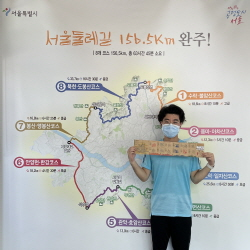
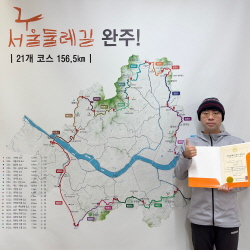
feat : ImageBB 라우터 & 2510 유럽여행 추가

diff --git a/src/app/(admin)/admin/test/page.tsx b/src/app/(admin)/admin/test/page.tsx
@@ -1,0 +1,277 @@
+"use client";
+import { useState } from "react";
+import styled from "@emotion/styled";
+import Image from "next/image";
+
+const Container = styled.div`
+  padding: 2rem;
+  max-width: 800px;
+  margin: 0 auto;
+`;
+
+const Title = styled.h1`
+  margin-bottom: 2rem;
+  color: #333;
+`;
+
+const UploadArea = styled.div`
+  border: 2px dashed #ddd;
+  border-radius: 8px;
+  padding: 2rem;
+  text-align: center;
+  margin-bottom: 2rem;
+  background: #f9f9f9;
+  cursor: pointer;
+  transition: all 0.3s;
+
+  &:hover {
+    border-color: #667eea;
+    background: #f0f0f0;
+  }
+`;
+
+const FileInput = styled.input`
+  display: none;
+`;
+
+const Button = styled.button`
+  padding: 0.75rem 1.5rem;
+  background: #667eea;
+  color: white;
+  border: none;
+  border-radius: 4px;
+  font-size: 1rem;
+  cursor: pointer;
+  transition: background 0.2s;
+  margin-top: 1rem;
+
+  &:hover:not(:disabled) {
+    background: #5568d3;
+  }
+
+  &:disabled {
+    background: #ccc;
+    cursor: not-allowed;
+  }
+`;
+
+const PreviewArea = styled.div`
+  margin-top: 2rem;
+  padding: 1rem;
+  background: #f9f9f9;
+  border-radius: 8px;
+`;
+
+const ImagePreview = styled.div`
+  margin-top: 1rem;
+  position: relative;
+  width: 100%;
+  max-width: 500px;
+  height: 300px;
+  border-radius: 8px;
+  overflow: hidden;
+  border: 1px solid #ddd;
+`;
+
+const UrlDisplay = styled.div`
+  margin-top: 1rem;
+  padding: 1rem;
+  background: white;
+  border-radius: 4px;
+  border: 1px solid #ddd;
+  word-break: break-all;
+`;
+
+const UrlLabel = styled.label`
+  display: block;
+  font-weight: bold;
+  margin-bottom: 0.5rem;
+  color: #333;
+`;
+
+const UrlInput = styled.input`
+  width: 100%;
+  padding: 0.5rem;
+  border: 1px solid #ddd;
+  border-radius: 4px;
+  font-size: 0.875rem;
+`;
+
+const CopyButton = styled.button`
+  margin-top: 0.5rem;
+  padding: 0.5rem 1rem;
+  background: #28a745;
+  color: white;
+  border: none;
+  border-radius: 4px;
+  cursor: pointer;
+  font-size: 0.875rem;
+
+  &:hover {
+    background: #218838;
+  }
+`;
+
+const ErrorMessage = styled.div`
+  margin-top: 1rem;
+  padding: 1rem;
+  background: #f8d7da;
+  color: #721c24;
+  border-radius: 4px;
+  border: 1px solid #f5c6cb;
+`;
+
+const SuccessMessage = styled.div`
+  margin-top: 1rem;
+  padding: 1rem;
+  background: #d4edda;
+  color: #155724;
+  border-radius: 4px;
+  border: 1px solid #c3e6cb;
+`;
+
+export default function ImageUploadTestPage() {
+  const [selectedFile, setSelectedFile] = useState<File | null>(null);
+  const [previewUrl, setPreviewUrl] = useState<string | null>(null);
+  const [uploadedUrl, setUploadedUrl] = useState<string | null>(null);
+  const [loading, setLoading] = useState(false);
+  const [error, setError] = useState<string | null>(null);
+  const [success, setSuccess] = useState<string | null>(null);
+
+  const handleFileSelect = (e: React.ChangeEvent<HTMLInputElement>) => {
+    const file = e.target.files?.[0];
+    if (file) {
+      if (!file.type.startsWith("image/")) {
+        setError("이미지 파일만 업로드할 수 있습니다.");
+        return;
+      }
+      setSelectedFile(file);
+      setError(null);
+      setSuccess(null);
+      setUploadedUrl(null);
+
+      // 미리보기 생성
+      const reader = new FileReader();
+      reader.onloadend = () => {
+        setPreviewUrl(reader.result as string);
+      };
+      reader.readAsDataURL(file);
+    }
+  };
+
+  const handleUpload = async () => {
+    if (!selectedFile) {
+      setError("파일을 선택해주세요.");
+      return;
+    }
+
+    setLoading(true);
+    setError(null);
+    setSuccess(null);
+
+    try {
+      const formData = new FormData();
+      formData.append("image", selectedFile);
+      formData.append("name", selectedFile.name);
+
+      const response = await fetch("/api/upload-image", {
+        method: "POST",
+        body: formData
+      });
+
+      const data = await response.json();
+
+      if (!response.ok || !data.success) {
+        throw new Error(data.error || "이미지 업로드에 실패했습니다.");
+      }
+
+      setUploadedUrl(data.url);
+      setSuccess("이미지가 성공적으로 업로드되었습니다!");
+    } catch (err) {
+      setError(err instanceof Error ? err.message : "이미지 업로드 중 오류가 발생했습니다.");
+    } finally {
+      setLoading(false);
+    }
+  };
+
+  const handleCopyUrl = () => {
+    if (uploadedUrl) {
+      navigator.clipboard.writeText(uploadedUrl);
+      setSuccess("URL이 클립보드에 복사되었습니다!");
+      setTimeout(() => setSuccess(null), 2000);
+    }
+  };
+
+  return (
+    <Container>
+      <Title>이미지 업로드 테스트</Title>
+
+      <UploadArea onClick={() => document.getElementById("file-input")?.click()}>
+        <FileInput
+          id="file-input"
+          type="file"
+          accept="image/*"
+          onChange={handleFileSelect}
+        />
+        {selectedFile ? (
+          <div>
+            <p>선택된 파일: {selectedFile.name}</p>
+            <p style={{ fontSize: "0.875rem", color: "#666" }}>
+              크기: {(selectedFile.size / 1024).toFixed(2)} KB
+            </p>
+          </div>
+        ) : (
+          <div>
+            <p>이미지를 선택하려면 클릭하세요</p>
+            <p style={{ fontSize: "0.875rem", color: "#666" }}>
+              또는 파일을 드래그하여 놓으세요
+            </p>
+          </div>
+        )}
+      </UploadArea>
+
+      {previewUrl && (
+        <PreviewArea>
+          <h3>미리보기</h3>
+          <ImagePreview>
+            <Image
+              src={previewUrl}
+              alt="미리보기"
+              fill
+              style={{ objectFit: "contain" }}
+            />
+          </ImagePreview>
+        </PreviewArea>
+      )}
+
+      <Button onClick={handleUpload} disabled={!selectedFile || loading}>
+        {loading ? "업로드 중..." : "이미지 업로드"}
+      </Button>
+
+      {error && <ErrorMessage>{error}</ErrorMessage>}
+      {success && <SuccessMessage>{success}</SuccessMessage>}
+
+      {uploadedUrl && (
+        <UrlDisplay>
+          <UrlLabel>업로드된 이미지 URL:</UrlLabel>
+          <UrlInput type="text" value={uploadedUrl} readOnly />
+          <CopyButton onClick={handleCopyUrl}>URL 복사</CopyButton>
+        </UrlDisplay>
+      )}
+
+      {uploadedUrl && (
+        <PreviewArea style={{ marginTop: "1rem" }}>
+          <h3>업로드된 이미지</h3>
+          <ImagePreview>
+            <Image
+              src={uploadedUrl}
+              alt="업로드된 이미지"
+              fill
+              style={{ objectFit: "contain" }}
+            />
+          </ImagePreview>
+        </PreviewArea>
+      )}
+    </Container>
+  );
+}

diff --git a/src/app/api/upload-image/route.ts b/src/app/api/upload-image/route.ts
@@ -1,0 +1,89 @@
+import { NextResponse } from "next/server";
+
+export const dynamic = "force-dynamic";
+
+export async function POST(req: Request) {
+  try {
+    const formData = await req.formData();
+    const image = formData.get("image");
+    const name = formData.get("name") as string | null;
+
+    if (!image) {
+      return NextResponse.json(
+        { error: "이미지가 제공되지 않았습니다." },
+        { status: 400 }
+      );
+    }
+
+    const imgbbKey = process.env.IMGBB_KEY;
+
+    if (!imgbbKey) {
+      return NextResponse.json(
+        { error: "IMGBB API 키가 설정되지 않았습니다." },
+        { status: 500 }
+      );
+    }
+
+    // 이미지가 File 객체인 경우 base64로 변환
+    let imageBase64: string;
+    
+    if (image instanceof File) {
+      const arrayBuffer = await image.arrayBuffer();
+      const buffer = Buffer.from(arrayBuffer);
+      imageBase64 = buffer.toString("base64");
+    } else if (typeof image === "string") {
+      // 이미 base64 문자열인 경우
+      imageBase64 = image.includes(",") ? image.split(",").pop() || image : image;
+    } else {
+      return NextResponse.json(
+        { error: "잘못된 이미지 형식입니다." },
+        { status: 400 }
+      );
+    }
+
+    // imgbb.com API로 업로드
+    const uploadFormData = new FormData();
+    uploadFormData.append("key", imgbbKey);
+    uploadFormData.append("image", imageBase64);
+    if (name) {
+      uploadFormData.append("name", name);
+    }
+
+    const response = await fetch("https://api.imgbb.com/1/upload", {
+      method: "POST",
+      body: uploadFormData
+    });
+
+    if (!response.ok) {
+      const errorData = await response.json();
+      console.error("ImgBB API 오류:", errorData);
+      return NextResponse.json(
+        { error: "이미지 업로드에 실패했습니다.", details: errorData },
+        { status: response.status }
+      );
+    }
+
+    const data = await response.json();
+
+    if (!data.success) {
+      return NextResponse.json(
+        { error: "이미지 업로드에 실패했습니다.", details: data },
+        { status: 500 }
+      );
+    }
+
+    // 성공 시 이미지 URL 반환
+    return NextResponse.json({
+      success: true,
+      url: data.data.url,
+      deleteUrl: data.data.delete_url,
+      image: data.data.image
+    });
+  } catch (error) {
+    console.error("이미지 업로드 오류:", error);
+    return NextResponse.json(
+      { error: "서버 오류가 발생했습니다.", details: error instanceof Error ? error.message : String(error) },
+      { status: 500 }
+    );
+  }
+}

diff --git a/src/constants/travelLists.tsx b/src/constants/travelLists.tsx
@@ -21,7 +21,15 @@ const travelLists = [
   new Travel("hoian", "Viet Nam - Hoi an"),
   new Travel("jangjiajie", "China - Jangjiajie"),
   new Travel("osaka", "Japan - Osaka"),
-  new Travel("kyoto", "Japan - Kyoto")
+  new Travel("kyoto", "Japan - Kyoto"),
+  new Travel("paris", "France - Paris"),
+  new Travel("luzern", "Swiss - Luzern"),
+  new Travel("alphs", "Swiss - Alphs"),
+  new Travel("venezia", "Italy - Venezia"),
+  new Travel("firenze", "Italy - Firenze"),
+  new Travel("amalfi", "Italy - Amalfi"),
+  new Travel("vatican", "Vatican"),
+  new Travel("roma", "Italy - Roma"),
 ];
 
 export default travelLists;
